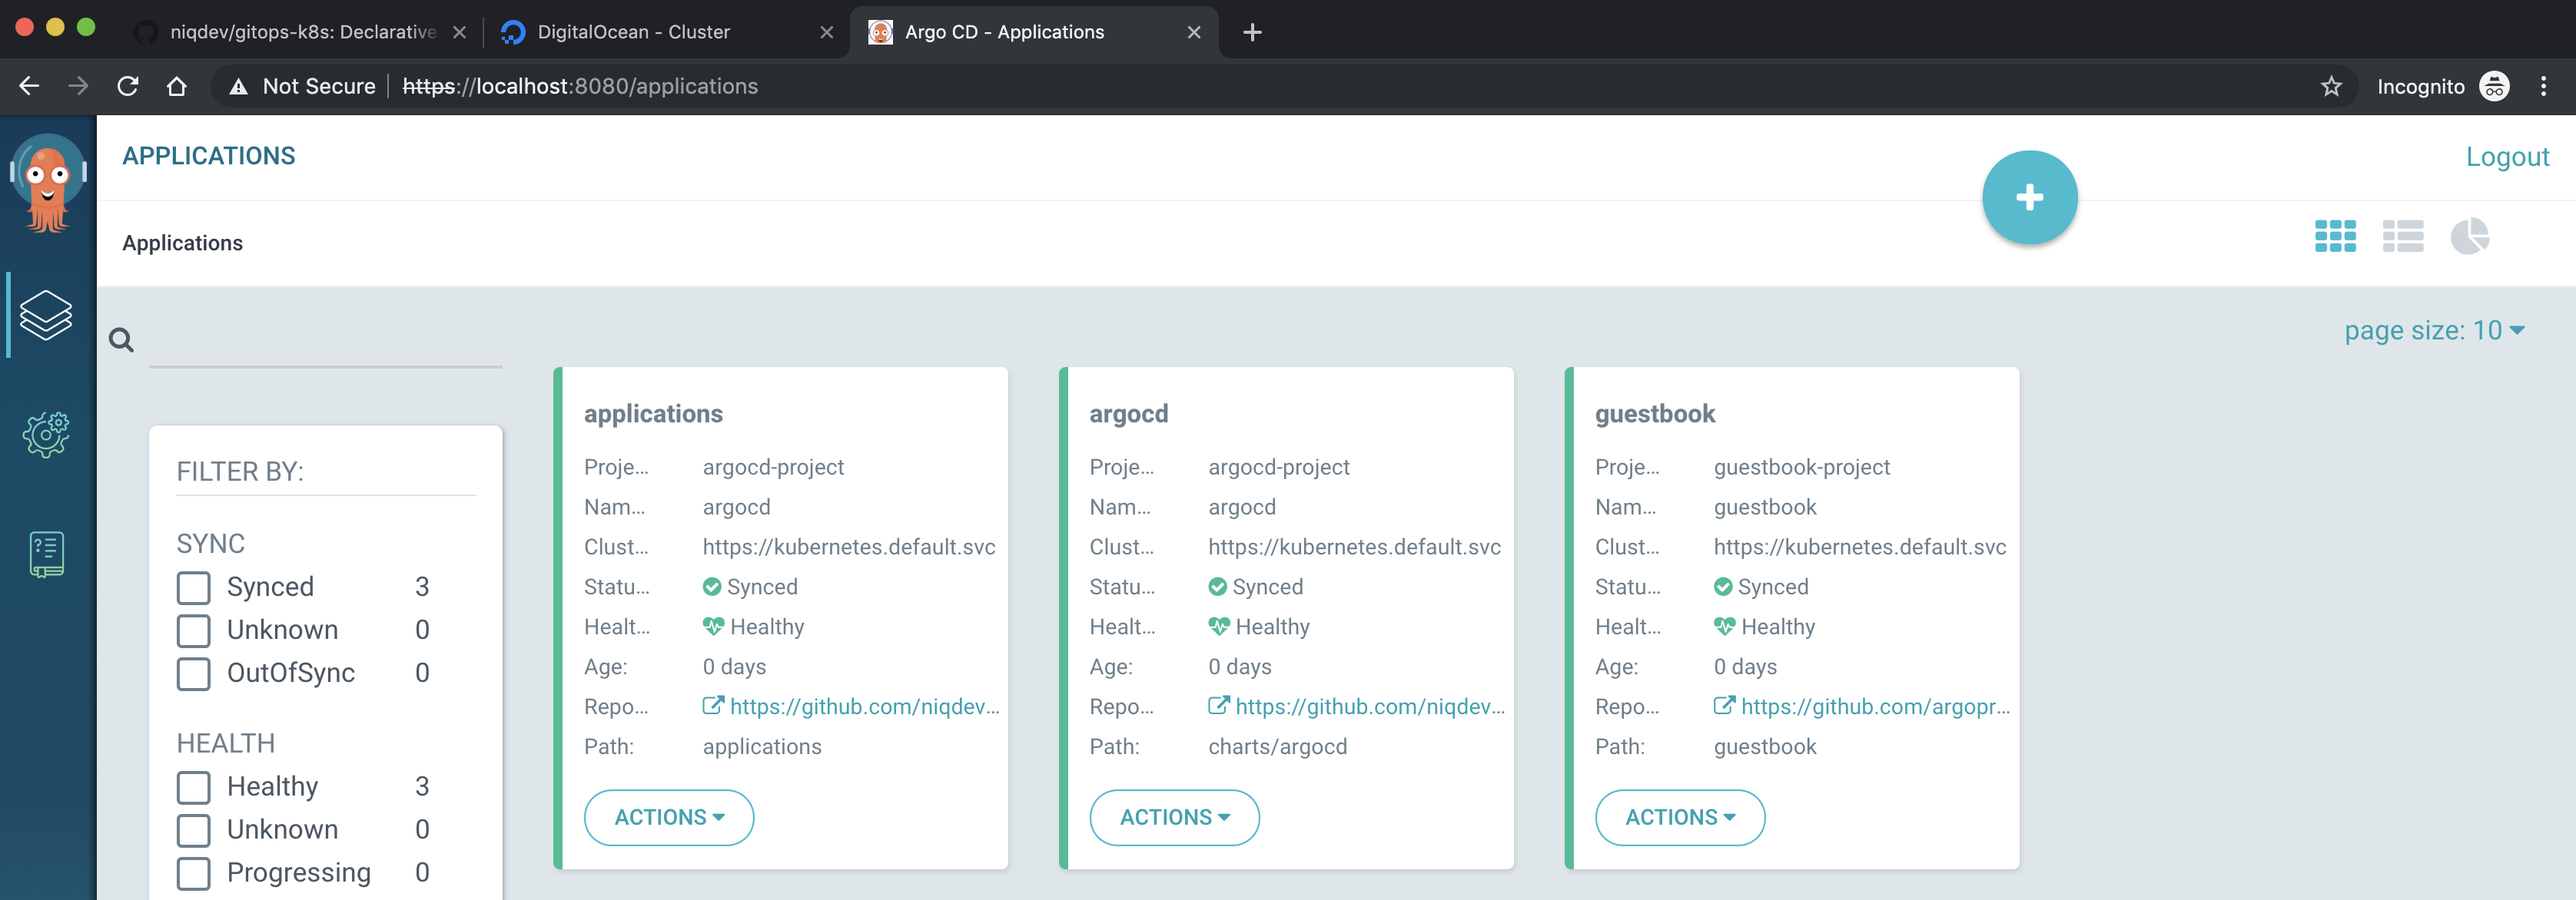
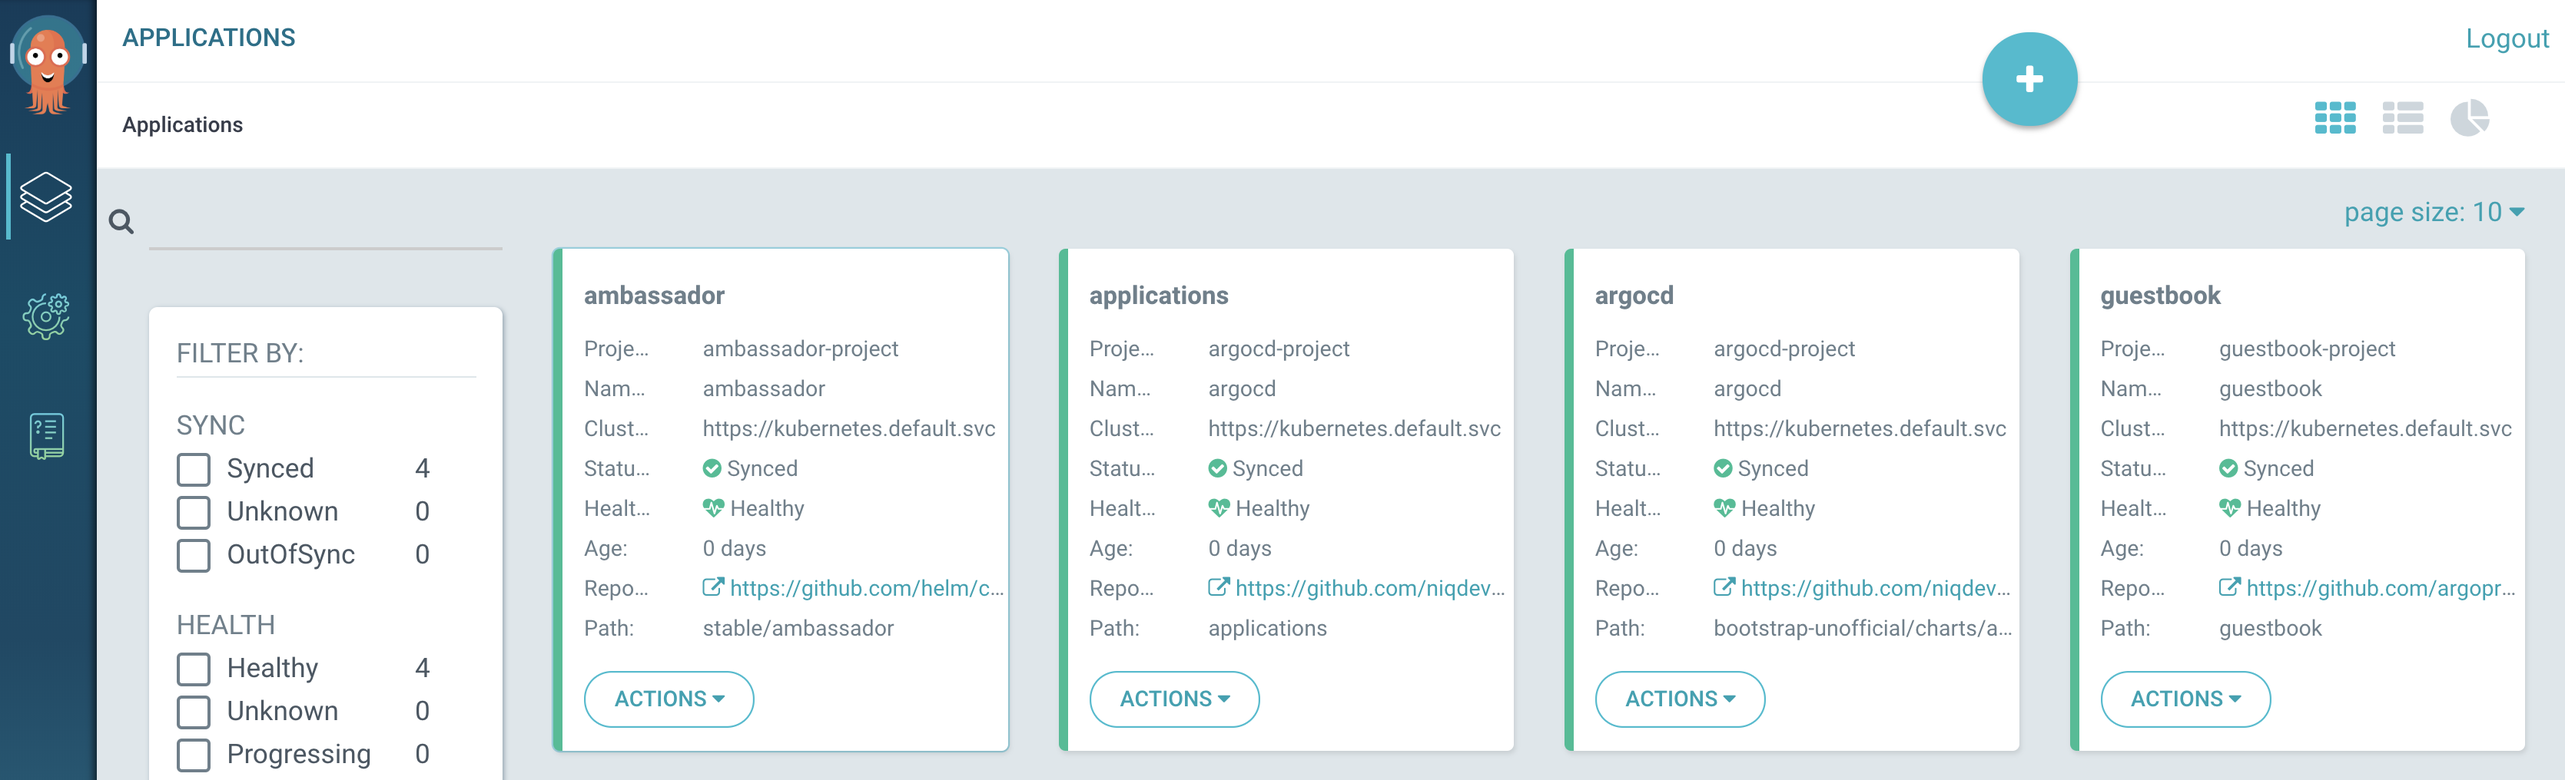
update readme

diff --git a/README.md b/README.md
@@ -87,68 +87,8 @@ Most of the steps have been kept manual on purpose, but they should be automated
 
 ![architecture](docs/img/architecture.png)
 
----
-
-TODO Split local vs Cloud
-
-TODO Makefile
-
-```bash
-cd bootstrap/
-
-helm repo add argo https://argoproj.github.io/argo-helm
-helm dependency update
-
-# bootstrap
-# 1) install argocd
-# 2) create application of applications
-# --namespace argocd overrides .Release.Namespace
-# fix is part of a different application: release-name
-# --name argocd overrides .Release.Name
-# https://github.com/argoproj/argo-helm/blob/db30d36879d9122714291ad4f161be9a986fde27/charts/argo-cd/templates/argocd-application-controller-clusterrolebinding.yaml#L9
-helm template --namespace argocd --name argocd --values values.yaml . | kubectl apply -n argocd -f -
-
-# open https://localhost:8080
-kubectl port-forward svc/argocd-server -n argocd 8080:443
-# username: admin
-# password: (autogenerated) the pod name of the Argo CD API server
-kubectl get pods -n argocd -l app.kubernetes.io/name=argocd-server -o name | cut -d'/' -f 2
-
-# login
-kubectl port-forward svc/argocd-server -n argocd 8080:443
-argocd login localhost:8080 --username admin
-
-# test to fix issue "invalid session: admin.password is missing" after sync first time
-# https://github.com/argoproj/argo-cd/blob/af896533dfb5d23568034f87f39114156630658f/test/manifests/base/patches.yaml
-kubectl get secret argocd-secret -o yaml -n argocd
-kubectl edit secret argocd-secret -n argocd
-```
-
-> working
-
-```bash
-cd bootstrap-unofficial/
-
-helm template --values values.yaml . | kubectl apply -n argocd -f -
-```
-
-```bash
-# debug ambassador
-# http://localhost:8877/ambassador/v0/diag/
-kubectl port-forward ambassador-XXX 8877 -n ambassador
-
-# retrieve EXTERNAL-IP
-# http://<EXTERNAL-IP>/guestbook/
-kubectl get service ambassador -n ambassador
-```
-
----
-
 ### Prerequisites
 
-* Create a Kubernetes cluster on [DigitalOcean](https://www.digitalocean.com/docs/kubernetes)
-    * $10/month for Worker Node
-    * $10/month for Load Balancer
 * Setup [kubectl](https://kubernetes.io/docs/tasks/tools/install-kubectl) to run commands against Kubernetes clusters
     ```bash
     # ubuntu
@@ -163,7 +103,18 @@ kubectl get service ambassador -n ambassador
     # macOS
     brew install kubernetes-helm
     ```
-* Before continue you should download cluster configs and test the connection
+* Setup [argocd](https://argoproj.github.io/argo-cd/getting_started/#2-download-argo-cd-cli) CLI
+    ```bash
+    # ubuntu
+    https://github.com/argoproj/argo-cd/releases/latest
+    # macOS
+    brew tap argoproj/tap
+    brew install argoproj/tap/argocd
+    ```
+* Create a Kubernetes cluster on [DigitalOcean](https://www.digitalocean.com/docs/kubernetes)
+    * $10/month for Worker Node
+    * $10/month for Load Balancer
+* Download the cluster configs and test connection
     ```bash
     export KUBECONFIG=~/.kube/CLUSTER_NAME-kubeconfig.yaml
     kubectl get nodes
@@ -173,53 +124,58 @@ kubectl get service ambassador -n ambassador
 
 Argo CD automates the deployment of the desired application states in the specified target environments. In this project Kubernetes manifests are specified as [helm](https://helm.sh/docs) charts.
 
-TODO improve
-
 You need to embrace failures if you want to have the ability to heal and recover automatically in most of the situations. A useful pattern is to have an `initContainer` to solve dependencies between various resources. For example a Kafka application should check if topics have been properly created (ideally by an operator) before even start.
 
 ### Bootstrap
 
+> FIXME image
+
 ![bootstrap](docs/img/bootstrap.png)
 
-[Here](charts/argocd) you can find the [official](https://github.com/argoproj/argo-cd/blob/master/manifests/install.yaml) installation packaged as Helm chart.
+> TODO update links to README.md#Setup
 
-1. TODO secrets for private charts
-2. Setup Argo CD
+1. *TODO Setup secrets (optional)*
+2. Setup Argo CD and all the applications
+    * [bootstrap](bootstrap/) (not working)
+    * [bootstrap-unofficial](bootstrap-unofficial/)
+3. Access Argo CD
+    * default credentials
     ```bash
-    # apply chart
-    helm template -f charts/argocd/values.yaml charts/argocd/ | kubectl apply -n argocd -f -
-
-    # open https://localhost:8080
-    kubectl port-forward svc/argocd-server -n argocd 8080:443
     # username: admin
     # password: (autogenerated) the pod name of the Argo CD API server
     kubectl get pods -n argocd -l app.kubernetes.io/name=argocd-server -o name | cut -d'/' -f 2
     ```
-3. Setup Argo CD application of applications
+    * port forward `argocd-server`
     ```bash
-    helm repo add argo https://argoproj.github.io/argo-helm
-    # apply chart
-    helm template -f bootstrap/values.yaml bootstrap/ | kubectl apply -n argocd -f -
-
+    kubectl port-forward svc/argocd-server -n argocd 8080:443
+    ```
+    * from the UI
+    ```bash
+    # open https://localhost:8080
+    ```
+    * from the CLI
+    ```bash
+    argocd login localhost:8080 --username admin
+    ```
+    * *TODO using Ambassador*
+4. (a) First time only you have to sync manually all the `OutOfSync` applications
+    * verify [guestbook](https://github.com/argoproj/argocd-example-apps/tree/master/guestbook) example with port forward and Ambassador
+    ```bash
     # open https://localhost:8081
     kubectl port-forward service/guestbook-ui -n guestbook 8081:80
+
+    # retrieve EXTERNAL-IP
+    # http://<EXTERNAL-IP>/guestbook/
+    kubectl get service ambassador -n ambassador
+    # debug ambassador
+    # http://localhost:8877/ambassador/v0/diag
+    kubectl port-forward ambassador-XXX 8877 -n ambassador
     ```
-4. First time only you have to sync manually all the `OutOfSync` applications
+4. (b) *TODO First time only automatically sync all applications with a cronjob*
 
 This is how it should looks like on the UI
 
 ![argocd-ui](docs/img/argocd-ui.png)
-
-TODO
-
-* >>> setup `LoadBalancer`
-* bootstrap chart
-* how to add an `Application`/`AppProject`/`ConfigMap` (secrets) and conventions
-* [docs](https://argoproj.github.io/argo-cd/operator-manual/declarative-setup)
-* login with GitHub
-* how to sync automatically first time
-* [AppProject](https://argoproj.github.io/argo-cd/operator-manual/project.yaml) template
-* `Application` deployments can track updates to branches, tags, or pinned to a specific version of manifests at a Git commit.
 
 ### Resources
 
@@ -228,7 +184,17 @@ TODO
 
 ## Applications
 
-TODO
+### Monitoring and Alerting with Prometheus
+
+> TODO
+
+### Logging with Fluent Bit and Elasticsearch
+
+> TODO
+
+### Resources
+
+* [prometheus-operator](https://coreos.com/operators/prometheus/docs/latest/user-guides/getting-started.html)
 
 ## Contributors
 
@@ -236,13 +202,19 @@ Thanks to [@conorfennell](https://github.com/conorfennell) and [@mduarte](https:
 
 ## TODO (not in order)
 
+* [ ] argocd: example secrets for private charts
+* [ ] argocd: override default `admin.password`
+* [ ] argocd: example login with GitHub
+* [ ] argocd: explain solution of how to sync automatically first time with cronjob
+* [ ] argocd: fix Ambassador routes in LoadBalancer configs
+* [ ] argocd: Makefile for bootstrap
 * [ ] travis + [linting](https://www.nrmitchi.com/2018/12/linting-your-helm-charts)
     ```bash
     # example
     helm lint charts/argocd/
     ```
 * [ ] Application diagrams of how they work: prometheus, fluentBit + ES, Ambassador/Istio, Kafka, Jaeger
-* [ ] setup [prometheus-operator](https://github.com/coreos/prometheus-operator) for monitoring and alerting
+* [ ] setup [prometheus-operator](https://coreos.com/operators/prometheus/docs/latest/user-guides/getting-started.html) for monitoring and alerting
 * [ ] setup Fluent Bit and Elasticsearch with Kibana for logging
 * [ ] [metric-server](https://github.com/kubernetes-incubator/metrics-server) e.g. `kubectl top nodes`
 * [ ] [Ambassador](https://www.getambassador.io) vs [Istio](https://istio.io)

diff --git a/bootstrap/README.md b/bootstrap/README.md
@@ -1,0 +1,42 @@
+# bootstrap (not working)
+
+This chart
+
+1. installs `argocd` from official [charts](https://github.com/argoproj/argo-helm/tree/master/charts/argo-cd) as requirements
+2. creates a `Namespace`
+3. creates an `AppProject`
+4. creates an `Application` of applications with [automated Sync Policy](https://argoproj.github.io/argo-cd/user-guide/auto_sync)
+
+## Setup
+
+```bash
+cd bootstrap/
+
+# add helm repository
+helm repo add argo https://argoproj.github.io/argo-helm
+# download tgz in bootstrap/charts
+helm dependency update
+
+# --namespace argocd overrides .Release.Namespace
+# --name argocd overrides .Release.Name
+# @see argo-helm/charts/argo-cd/templates/argocd-application-controller-clusterrolebinding.yaml
+# apply chart
+helm template --namespace argocd --name argocd --values values.yaml . | kubectl apply -n argocd -f -
+```
+
+## Issue
+
+As soon as you sync `argocd` itself, the following secrets are deleted from `argocd-secret` and the [solution](https://argoproj.github.io/argo-cd/faq/#i-forgot-the-admin-password-how-do-i-reset-it) proposed in the docs is not working. Investigate further the reason or open an issue.
+
+* admin.password
+* admin.passwordMtime
+* server.secretkey
+* tls.crt
+* tls.key
+
+```bash
+# error in the logs "invalid session: admin.password is missing" after sync first time
+# https://github.com/argoproj/argo-cd/blob/af896533dfb5d23568034f87f39114156630658f/test/manifests/base/patches.yaml
+kubectl get secret argocd-secret -o yaml -n argocd
+kubectl edit secret argocd-secret -n argocd
+```

diff --git a/bootstrap-unofficial/README.md b/bootstrap-unofficial/README.md
@@ -1,0 +1,21 @@
+# bootstrap-unofficial
+
+This chart
+
+1. installs `argocd` as subchart from [charts/argocd](charts/argocd). It's generated from [install.yaml](https://github.com/argoproj/argo-cd/blob/master/manifests/install.yaml)
+    ```bash
+    # download and split chart
+    ./split-templates.sh
+    ```
+2. creates a `Namespace`
+3. creates an `AppProject`
+4. creates an `Application` of applications with [automated Sync Policy](https://argoproj.github.io/argo-cd/user-guide/auto_sync)
+
+## Setup
+
+```bash
+cd bootstrap-unofficial/
+
+# apply chart
+helm template --values values.yaml . | kubectl apply -n argocd -f -
+```
